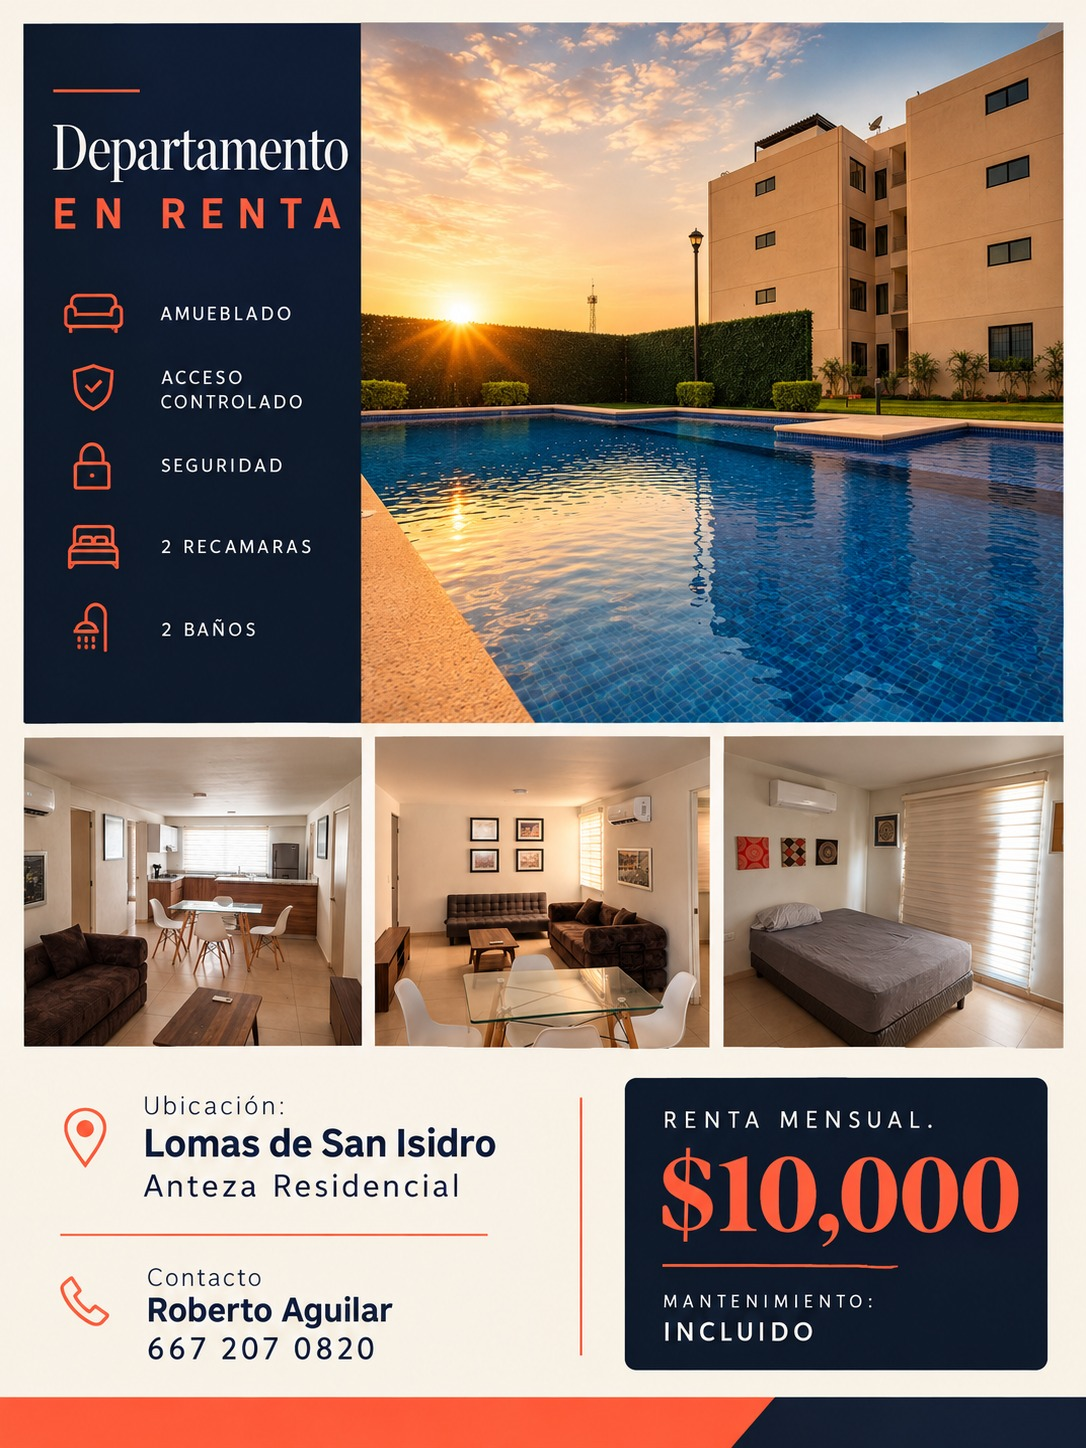
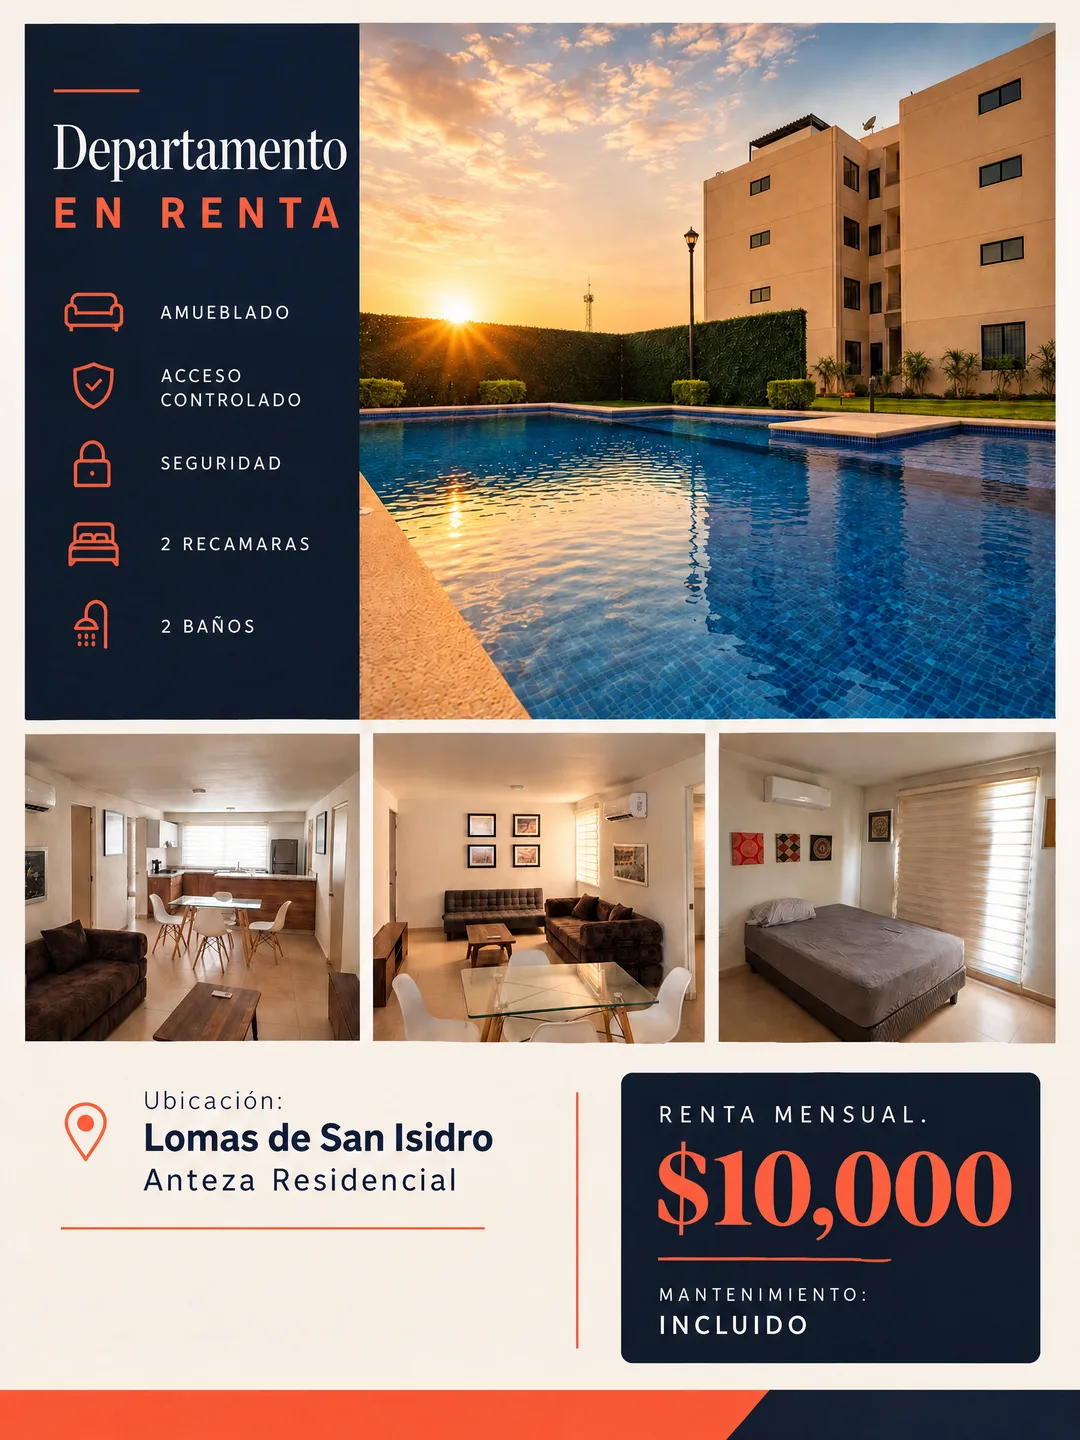
feat: preferencias de cookies bilingues y muestras sin telefonos

diff --git a/app/cookie-preferences.tsx b/app/cookie-preferences.tsx
@@ -1,0 +1,46 @@
+'use client';
+
+import { useEffect, useState } from 'react';
+import { usePathname } from 'next/navigation';
+
+const KEY = 'pawwer:cookie-consent:v1';
+type Consent = { necessary: true; preferences: boolean; analytics: boolean; marketing: boolean; savedAt: string };
+
+export default function CookiePreferences() {
+  const [open, setOpen] = useState(false);
+  const [custom, setCustom] = useState(false);
+  const [values, setValues] = useState({ preferences: false, analytics: false, marketing: false });
+  const pathname = usePathname();
+  const english = pathname.startsWith('/en');
+  useEffect(() => {
+    try {
+      const stored = JSON.parse(localStorage.getItem(KEY) || 'null') as Consent | null;
+      if (!stored?.savedAt || !Number.isFinite(Date.parse(stored.savedAt)) || Date.parse(stored.savedAt) > Date.now() || Date.now() - Date.parse(stored.savedAt) > 180 * 86400000) setOpen(true);
+      else setValues({ preferences: stored.preferences === true, analytics: stored.analytics === true, marketing: stored.marketing === true });
+    } catch { setOpen(true); }
+  }, []);
+  function save(next: typeof values) {
+    const consent: Consent = { necessary: true, ...next, savedAt: new Date().toISOString() };
+    try { localStorage.setItem(KEY, JSON.stringify(consent)); } catch { /* Memory-only in private browsers. */ }
+    setValues(next); setOpen(false); setCustom(false);
+    window.dispatchEvent(new CustomEvent('pawwer:cookie-consent', { detail: consent }));
+  }
+  return <>
+    <button type="button" onClick={() => { setOpen(true); setCustom(true); }} style={{ position: 'fixed', bottom: 12, left: 12, zIndex: 70, padding: '8px 12px', borderRadius: 20, background: '#fff', color: '#17202a', border: '1px solid #d9d9d9', fontSize: 12 }}>{english ? 'Cookie settings' : 'Preferencias de cookies'}</button>
+    {open && <section aria-label={english ? 'Cookie preferences' : 'Preferencias de cookies'} style={{ position: 'fixed', bottom: 16, left: 16, right: 16, maxWidth: 640, maxHeight: 'calc(100dvh - 32px)', overflowY: 'auto', margin: '0 auto', zIndex: 90, padding: 24, background: '#fff', color: '#17202a', border: '1px solid #d9d9d9', borderRadius: 20, boxShadow: '0 12px 50px #0003' }}>
+      <h2 style={{ fontSize: 20, margin: '0 0 10px' }}>{english ? 'Your privacy, your choice' : 'Tu privacidad, tú decides'}</h2>
+      <p style={{ fontSize: 14, lineHeight: 1.6 }}>{english ? 'Essential storage keeps the site working. Optional categories remain off until you choose them. You can reject all optional cookies and change your choice at any time.' : 'El almacenamiento necesario permite que el sitio funcione. Las categorías opcionales permanecen apagadas hasta que las elijas. Puedes rechazarlas todas y cambiar tu decisión cuando quieras.'}</p>
+      {custom && <div style={{ display: 'grid', gap: 12, margin: '16px 0' }}>
+        <label><input type="checkbox" checked disabled /> {english ? 'Necessary: security and storing your consent' : 'Necesarias: seguridad y guardar tu consentimiento'}</label>
+        {(['preferences', 'analytics', 'marketing'] as const).map(category => <label key={category} style={{ display: 'flex', alignItems: 'start', gap: 8 }}><input type="checkbox" checked={values[category]} onChange={e => setValues(v => ({ ...v, [category]: e.target.checked }))} />{({ preferences: english ? 'Preferences: remember optional personalization' : 'Preferencias: recordar personalización opcional', analytics: english ? 'Analytics: understand visits and improve the site' : 'Analítica: conocer las visitas y mejorar el sitio', marketing: english ? 'Marketing: measure campaigns and personalize ads' : 'Marketing: medir campañas y personalizar anuncios' })[category]}</label>)}
+        <small>{english ? 'This landing currently has no analytics or advertising trackers. Permission does not add new trackers.' : 'Esta landing actualmente no incluye rastreadores analíticos ni publicitarios. Dar permiso no agrega rastreadores nuevos.'}</small>
+      </div>}
+      <div style={{ display: 'flex', flexWrap: 'wrap', gap: 10 }}>
+        <button className="btn" type="button" onClick={() => save({ preferences: false, analytics: false, marketing: false })}>{english ? 'Reject optional' : 'Rechazar opcionales'}</button>
+        <button className="btn" type="button" onClick={() => custom ? save(values) : setCustom(true)}>{custom ? (english ? 'Save selection' : 'Guardar selección') : (english ? 'Customize' : 'Personalizar')}</button>
+        <button className="btn" type="button" onClick={() => save({ preferences: true, analytics: true, marketing: true })}>{english ? 'Accept all' : 'Aceptar todas'}</button>
+      </div>
+      <a href={english ? '/en/privacy' : '/privacidad'} style={{ display: 'inline-block', marginTop: 14, textDecoration: 'underline', fontSize: 13 }}>{english ? 'Privacy notice' : 'Aviso de privacidad'}</a>
+    </section>}
+  </>;
+}

diff --git a/app/layout.tsx b/app/layout.tsx
@@ -4,6 +4,7 @@ import './globals.css';
 import './editor-media.css';
 import { content } from './site-content';
 import Reveal from './reveal';
+import CookiePreferences from './cookie-preferences';
 
 // Fuente del sistema PAWWER (misma que el CRM).
 const display = Space_Grotesk({
@@ -27,6 +28,7 @@ export default function RootLayout({ children }: Readonly<{ children: React.Reac
       <body>
         {children}
         <Reveal />
+        <CookiePreferences />
       </body>
     </html>
   );
